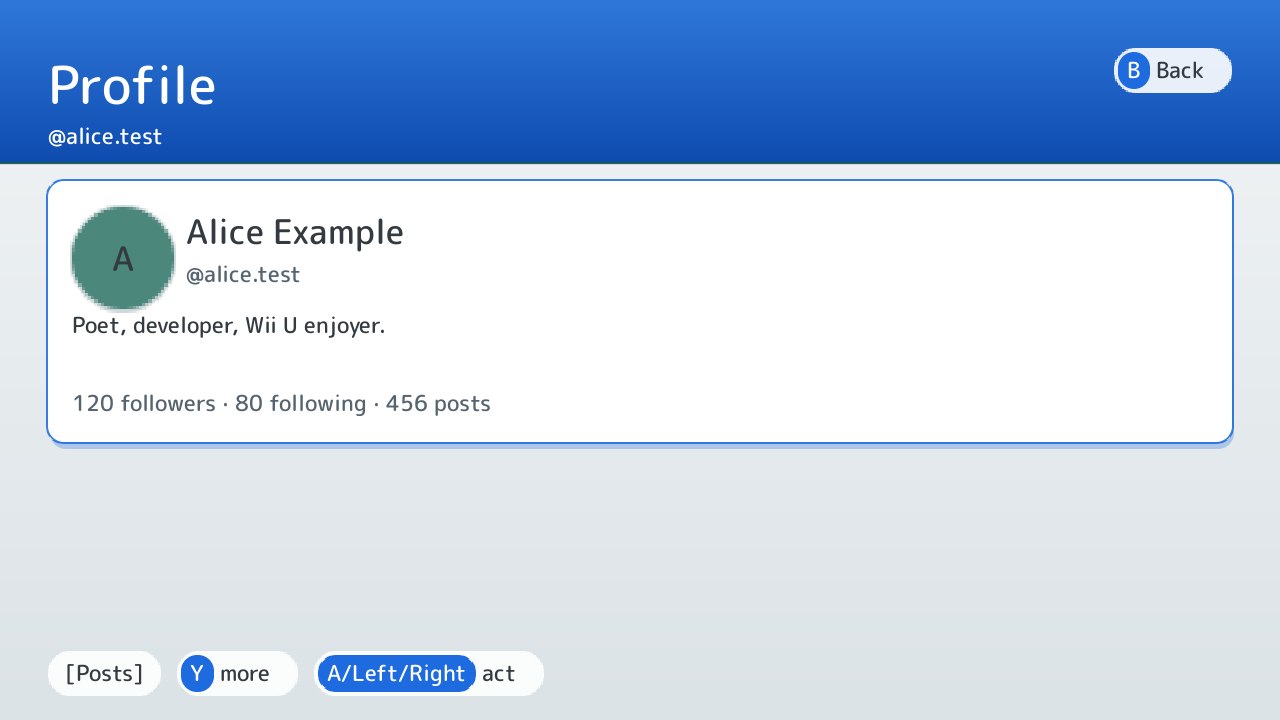
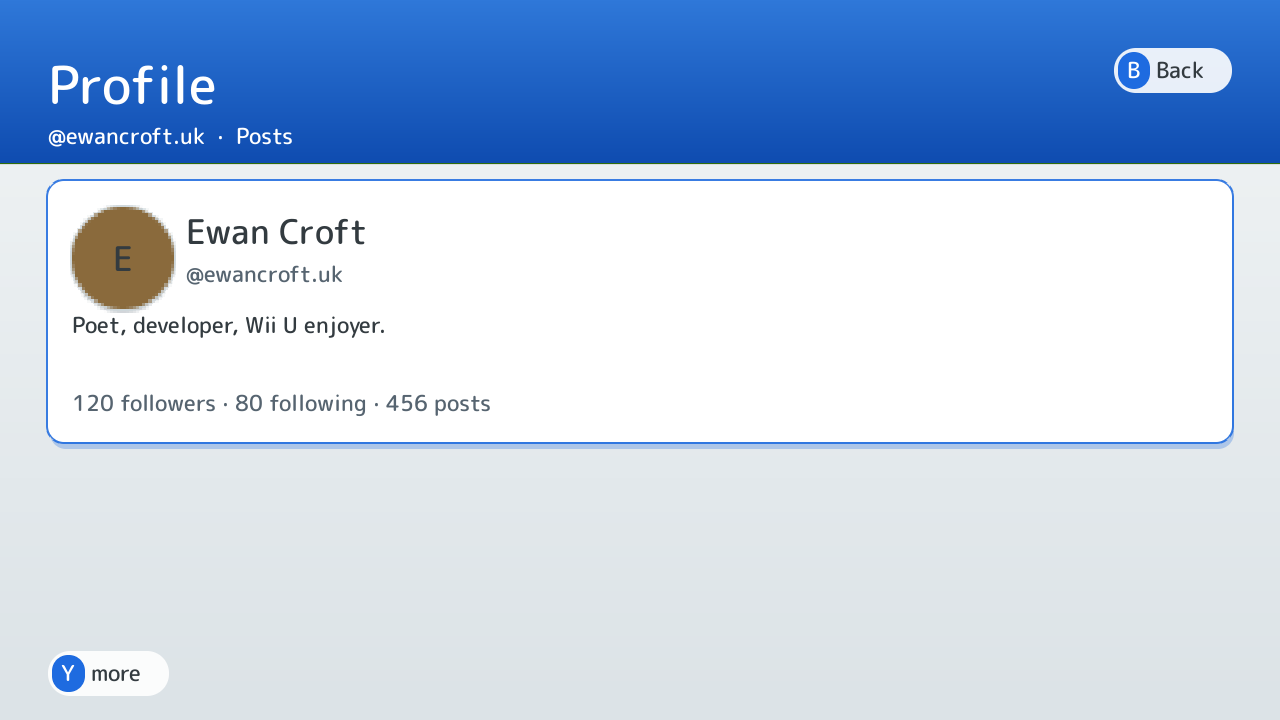
fix(ui): set Home's labels at one size and make the prompts honest
Six columns fitted the TV's height but not the words: "Notifications" and
"Queued posts" had to drop to the caption face while the rest of the grid
stayed body-sized, so the second row read at a different size from the first.
Four columns of three rows cost one row and buy tiles wide enough for every
label at body size, centred in its tile. A tile that cannot be opened is
dimmed rather than captioned "Sign in first" — seven times over the grid,
when the strip below already explains the focused one.

The rest is what the rendered screens showed was off: a profile footer that
promised "A/Left/Right: act" on your own profile, where the session layer
refuses all three, now names the actions the selected row actually has, with
the tab moved from a non-button pill up to the header; the thread's text
scrollbar moves off the card's edge, where it read as a second border beside
the focus ring; an unread row gets the accent bar its own comment describes
instead of a dot stranded in the corner; and Messages and Queued posts drop
the "B: back" pill the header's Back button already shows.

🤖 Generated with [Claude Code](https://claude.com/claude-code)

diff --git a/src/app/app_home.c b/src/app/app_home.c
@@ -498,13 +498,17 @@ cobalt_app_draw_home_tv(cobalt_app *app, cobalt_render *r)
    const cobalt_metrics *m = cobalt_render_metrics(r);
    cobalt_app_draw_header(r, "Bluesky for Wii U");
 
-   /* Two rows of large tiles, Wii U menu style. Ten in one row left each
-    * about 100px wide, which truncated every label. */
-   const int cols = (MENU_COUNT + 1) / 2;
+   /* Four columns of large tiles, Wii U menu style. Six columns plus two rows
+    * fitted the height, but each tile was narrower than the longer labels:
+    * "Notifications" and "Queued posts" had to drop to the caption face, so
+    * one row of the grid read at a different size from the other. The extra
+    * row buys tiles wide enough to set every label in the body face. */
+   const int cols = 4;
    const int rows = (MENU_COUNT + cols - 1) / cols;
    const int top = cobalt_content_top(r);
-   const int tile_h = 130;
+   const int tile_h = 110;
    const int tile_w = (m->width - 2 * m->pad_edge - m->gap * (cols - 1)) / cols;
+   const int label_h = cobalt_font_line_height(r, COBALT_FONT_BODY);
 
    for (int i = 0; i < MENU_COUNT; i++) {
       const int col = i % cols;
@@ -513,30 +517,25 @@ cobalt_app_draw_home_tv(cobalt_app *app, cobalt_render *r)
                         top + row * (tile_h + m->gap), tile_w, tile_h };
       cobalt_draw_tile(r, &tile, app->focus[i]);
 
-      SDL_Color label = menu_enabled(i) ? COBALT_COLOUR_TEXT : COBALT_COLOUR_TEXT_DIM;
-      /* Half the tile padding on each side for the label: at six tiles a row a
-       * long word such as "Notifications" otherwise breaks mid-word. */
-      int label_inset = m->pad_tile / 2;
-      int label_max = tile.w - 2 * label_inset;
-      int label_w = 0;
-      cobalt_font_id label_font = COBALT_FONT_BODY;
-      cobalt_text_size(r, COBALT_FONT_BODY, menu_label(i), &label_w, NULL);
-      if (label_w > label_max) {
-         /* The smaller font, with less inset, before any word is allowed to break:
-          * a word that still does not fit then wraps mid-word, which reads wrong. */
-         label_font = COBALT_FONT_CAPTION;
-         label_inset = 4;
-         label_max = tile.w - 2 * label_inset;
-      }
-      cobalt_draw_text_wrapped(r, label_font, menu_label(i), tile.x + label_inset,
-                               tile.y + m->pad_tile, label_max, 2, label);
+      const bool enabled = menu_enabled(i);
+      SDL_Color label = enabled ? COBALT_COLOUR_TEXT : COBALT_COLOUR_TEXT_DIM;
 
-      if (!menu_enabled(i)) {
-         cobalt_draw_text(r, COBALT_FONT_CAPTION,
-                          (signed_in() || MENU[i] == ACTION_ACCOUNT) ? "Unavailable" : "Sign in first",
-                          tile.x + m->pad_tile, tile.y + tile.h - m->pad_tile - 24,
-                          COBALT_COLOUR_TEXT_DIM);
-      }
+      /* The label is centred in the tile so a row of them reads as one band.
+       * A disabled tile is dimmed but says nothing itself: the note inside
+       * every such tile would repeat "Sign in first" seven times across the
+       * grid, and the strip under it already says why the focused tile is
+       * unavailable in words. */
+      const int label_max = tile.w - 2 * m->pad_tile;
+      int label_w = 0;
+      cobalt_text_size(r, COBALT_FONT_BODY, menu_label(i), &label_w, NULL);
+      const cobalt_font_id label_font =
+         (label_w > label_max) ? COBALT_FONT_CAPTION : COBALT_FONT_BODY;
+      const int label_line = (label_font == COBALT_FONT_BODY)
+                                ? label_h
+                                : cobalt_font_line_height(r, COBALT_FONT_CAPTION);
+      cobalt_draw_text_wrapped(r, label_font, menu_label(i), tile.x + m->pad_tile,
+                               tile.y + (tile.h - label_line) / 2, label_max, 1,
+                               label);
    }
 
    /* Detail strip for the focused tile: the TV has room, so use it rather

diff --git a/src/app/profile.c b/src/app/profile.c
@@ -236,8 +236,17 @@ cobalt_profile_view_draw(cobalt_profile_view *view, cobalt_render *r,
                     COBALT_COLOUR_TILE);
    {
       SDL_Color dim = { 0xFF, 0xFF, 0xFF, 0xFF };
-      cobalt_draw_text(r, COBALT_FONT_CAPTION,
-                       cobalt_session_busy() ? "Loading..." : profile->handle,
+      /* The tab is part of the screen's identity, not a button, so it belongs
+       * here with the handle rather than as a pill in the footer. */
+      char subtitle[96];
+      if (cobalt_session_busy()) {
+         snprintf(subtitle, sizeof(subtitle), "Loading...");
+      } else {
+         snprintf(subtitle, sizeof(subtitle), "%s%s%s", profile->handle,
+                  profile->handle[0] ? "  \xC2\xB7  " : "",
+                  wf_profile_tab_name(cobalt_session_profile_tab()));
+      }
+      cobalt_draw_text(r, COBALT_FONT_CAPTION, subtitle,
                        m->pad_edge,
                        m->pad_edge +
                           cobalt_font_line_height(r, COBALT_FONT_TITLE) -
@@ -300,8 +309,23 @@ cobalt_profile_view_draw(cobalt_profile_view *view, cobalt_render *r,
                        y + m->gap, COBALT_COLOUR_TEXT_DIM);
    }
 
+   /* Name what the buttons do on the row that is actually selected: they act
+    * on the account on the header row and on the post on any other, and on
+    * your own profile the header row has nothing for A, Left or Right (the
+    * session layer refuses them for is_self) — so promising those would be
+    * false. */
    char hint_text[160];
-   snprintf(hint_text, sizeof(hint_text), "[%s]  Y: more   A/Left/Right: act",
-            wf_profile_tab_name(cobalt_session_profile_tab()));
+   if (view->nav.selected == HEADER_ROW) {
+      if (profile->is_self) {
+         snprintf(hint_text, sizeof(hint_text), "Y: more");
+      } else {
+         snprintf(hint_text, sizeof(hint_text),
+                  "A: %s   Left: mute   Right: block   Y: more",
+                  profile->viewer_following[0] ? "unfollow" : "follow");
+      }
+   } else {
+      snprintf(hint_text, sizeof(hint_text),
+               "A: thread   Left: like   Right: repost   Y: more");
+   }
    cobalt_draw_hints(r, cobalt_session_busy() ? "Working..." : hint_text);
 }

diff --git a/src/app/thread.c b/src/app/thread.c
@@ -175,22 +175,32 @@ cobalt_thread_view_update(cobalt_thread_view *view, const cobalt_input *in)
 
 /* The scrollbar for the selected post's text window, drawn along the right
  * edge of the card it belongs to. Shared by the full-width card and the TV's
- * detail column. */
+ * detail column.
+ *
+ * Inset from the card edge by a full gap: at the very edge the 3px bar reads
+ * as a second border beside the tile's own, and a focused card's ring sits
+ * two pixels away from it. Inside the padding it reads as a scrollbar, and
+ * the text column still clears it. */
 static void
 draw_text_scrollbar(cobalt_render *r, const cobalt_metrics *m, const SDL_Rect *rect,
                     int first, int win, int tot)
 {
    const int track_h = rect->h - 2 * m->pad_tile;
+   if (track_h <= 0 || tot <= 0 || win <= 0) {
+      return;
+   }
    int thumb_h = track_h * win / tot;
    if (thumb_h < 8) {
       thumb_h = 8;
    }
    const int span = tot - win;
-   const int thumb_y = rect->y + m->pad_tile + (track_h - thumb_h) * first / span;
+   const int thumb_y = rect->y + m->pad_tile +
+                       (span > 0 ? (track_h - thumb_h) * first / span : 0);
    SDL_Color track = COBALT_COLOUR_TEXT_DIM;
    track.a = 70;
-   const SDL_Rect tr = { rect->x + rect->w - 6, rect->y + m->pad_tile, 3, track_h };
-   const SDL_Rect th = { rect->x + rect->w - 6, thumb_y, 3, thumb_h };
+   const int bar_x = rect->x + rect->w - m->pad_tile / 2;
+   const SDL_Rect tr = { bar_x, rect->y + m->pad_tile, 3, track_h };
+   const SDL_Rect th = { bar_x, thumb_y, 3, thumb_h };
    cobalt_fill_rect(r, &tr, track);
    cobalt_fill_rect(r, &th, COBALT_COLOUR_ACCENT);
 }

diff --git a/src/app/messages.c b/src/app/messages.c
@@ -280,11 +280,13 @@ draw_row(cobalt_render *r, const cobalt_chat_convo *item, const SDL_Rect *rect,
    const int right = rect->x + rect->w - m->pad_tile;
    int y = rect->y + m->pad_tile;
 
-   /* Unread conversations get the same accent dot as unread notifications. */
+   /* Unread conversations get the same accent bar as unread notifications. */
    if (item->unread > 0) {
-      const int d = 10;
-      SDL_Rect dot = { rect->x + rect->w - d - 14, rect->y + rect->h - d - 12, d, d };
-      cobalt_fill_rounded_rect(r, &dot, d / 2, COBALT_COLOUR_ACCENT);
+      SDL_Rect bar = { rect->x + 3, rect->y + m->pad_tile, 4,
+                       rect->h - 2 * m->pad_tile };
+      if (bar.h > 0) {
+         cobalt_fill_rounded_rect(r, &bar, 2, COBALT_COLOUR_ACCENT);
+      }
    }
 
    const int name_w = cobalt_draw_text(r, COBALT_FONT_BODY, item->name, left, y,
@@ -453,5 +455,5 @@ cobalt_messages_view_draw(cobalt_messages_view *view, cobalt_render *r,
    }
 
    draw_list(r, surface, &view->nav, inbox, "No messages yet.",
-             "X: new message   Y: requests   B: back   +: refresh");
+             "X: new message   Y: requests   +: refresh");
 }

diff --git a/src/app/queue_view.c b/src/app/queue_view.c
@@ -59,7 +59,8 @@ cobalt_queue_view_draw(const cobalt_queue_view *view, const cobalt_post_queue *q
                                "later to keep it here until you send it.",
                                m->pad_edge, top + m->pad_tile, width, 3,
                                COBALT_COLOUR_TEXT);
-      cobalt_draw_hints(r, "B: back");
+      /* No footer prompt: the header's Back pill is the only binding here
+       * and naming it twice reads as two different back buttons. */
       return;
    }
 
@@ -81,5 +82,5 @@ cobalt_queue_view_draw(const cobalt_queue_view *view, const cobalt_post_queue *q
       y += h + m->gap;
    }
 
-   cobalt_draw_hints(r, "A: send   X: discard   Up/Down: choose   B: back");
+   cobalt_draw_hints(r, "A: send   X: discard   Up/Down: choose");
 }

diff --git a/src/app/notify.c b/src/app/notify.c
@@ -133,9 +133,11 @@ draw_row(cobalt_render *r, const cobalt_notification *item, const SDL_Rect *rect
     * tile already carries the focus state, and two competing highlights on one
     * row is harder to read than one. */
    if (item->unread) {
-      const int d = 10;
-      SDL_Rect dot = { rect->x + rect->w - d - 14, rect->y + rect->h - d - 12, d, d };
-      cobalt_fill_rounded_rect(r, &dot, d / 2, COBALT_COLOUR_ACCENT);
+      SDL_Rect bar = { rect->x + 3, rect->y + m->pad_tile, 4,
+                       rect->h - 2 * m->pad_tile };
+      if (bar.h > 0) {
+         cobalt_fill_rounded_rect(r, &bar, 2, COBALT_COLOUR_ACCENT);
+      }
    }
 
    cobalt_avatar_draw(r, item->avatar, item->actor, item->handle, left, y,

diff --git a/CHANGELOG.md b/CHANGELOG.md
@@ -13,9 +13,17 @@ the GitHub release notes, so keep the `## [x.y.z] - date` headings exact.
 
 ### Changed
 
+- The TV's Home menu is four columns of tiles in three rows rather than six and two. Six columns fitted the height but not the words: "Notifications" and "Queued posts" had to drop to the caption face while the rest stayed body-sized, so one row read at a different size from the other. Every label is now body-sized and centred in its tile, and a tile that cannot be opened is dimmed rather than captioned "Sign in first" seven times over — the strip below the grid already says why the focused tile is unavailable.
+- A profile's footer names what its buttons do on the row that is selected: follow or unfollow, mute and block on the account, like and repost on a post, and only the More menu on your own profile, where the other three are refused. The tab being shown (Posts, Replies) moved from a non-button pill in the footer to the header beside the handle.
 - A control prompt — the pills along the bottom of every screen — is one draw per shape instead of seven. Each pill's body and its accent key chip are kept as tinted masks at the size they are drawn, so a footer of five prompts asks the renderer for ten commands where it asked for seventy, and the pill's antialiased ends are drawn at their own radius rather than a stretched tile. A screen's prompts cost a few kilobytes of texture between them.
 - A tile draws only what shows. Its shadow is filled where the body does not cover it rather than across the whole card, a focused tile's accent ring is drawn as the border it is instead of a whole card of accent, the glassy sheen is composited into the body first and skipped where that leaves the body's own colour — which, on a white tile, it always does — and opaque fills are written instead of blended, the background gradient included. On the development machine the timeline's TV frame fell from 2.3 ms to 1.9 ms and a thread's from 2.2 ms to 1.9 ms, most of what is left being the software renderer presenting the frame.
 - Text is laid out once and remembered. The renderer keeps where each string broke into lines at the width it was drawn, so a card no longer wraps its own text twice a frame, and the walk that finds the breaks goes word by word rather than byte by byte, so it no longer costs the square of the line's length. On the development machine a timeline frame's text work fell from about 2.7 ms to 2.3 ms and a thread's from 3.2 ms to 2.2 ms; `make -C tests bench` measures it.
+
+### Fixed
+
+- The thread's text scrollbar sits inside the card's padding instead of on its edge, where it read as a second border beside the tile's own and a focused card's accent ring ran two pixels from it.
+- An unread notification or conversation is marked with the accent bar down the left of its row that the code always claimed to draw, rather than a single dot stranded in the row's bottom-right corner.
+- Messages and Queued posts no longer repeat "B: back" in the footer under the header's Back pill.
 
 ### Removed
 
